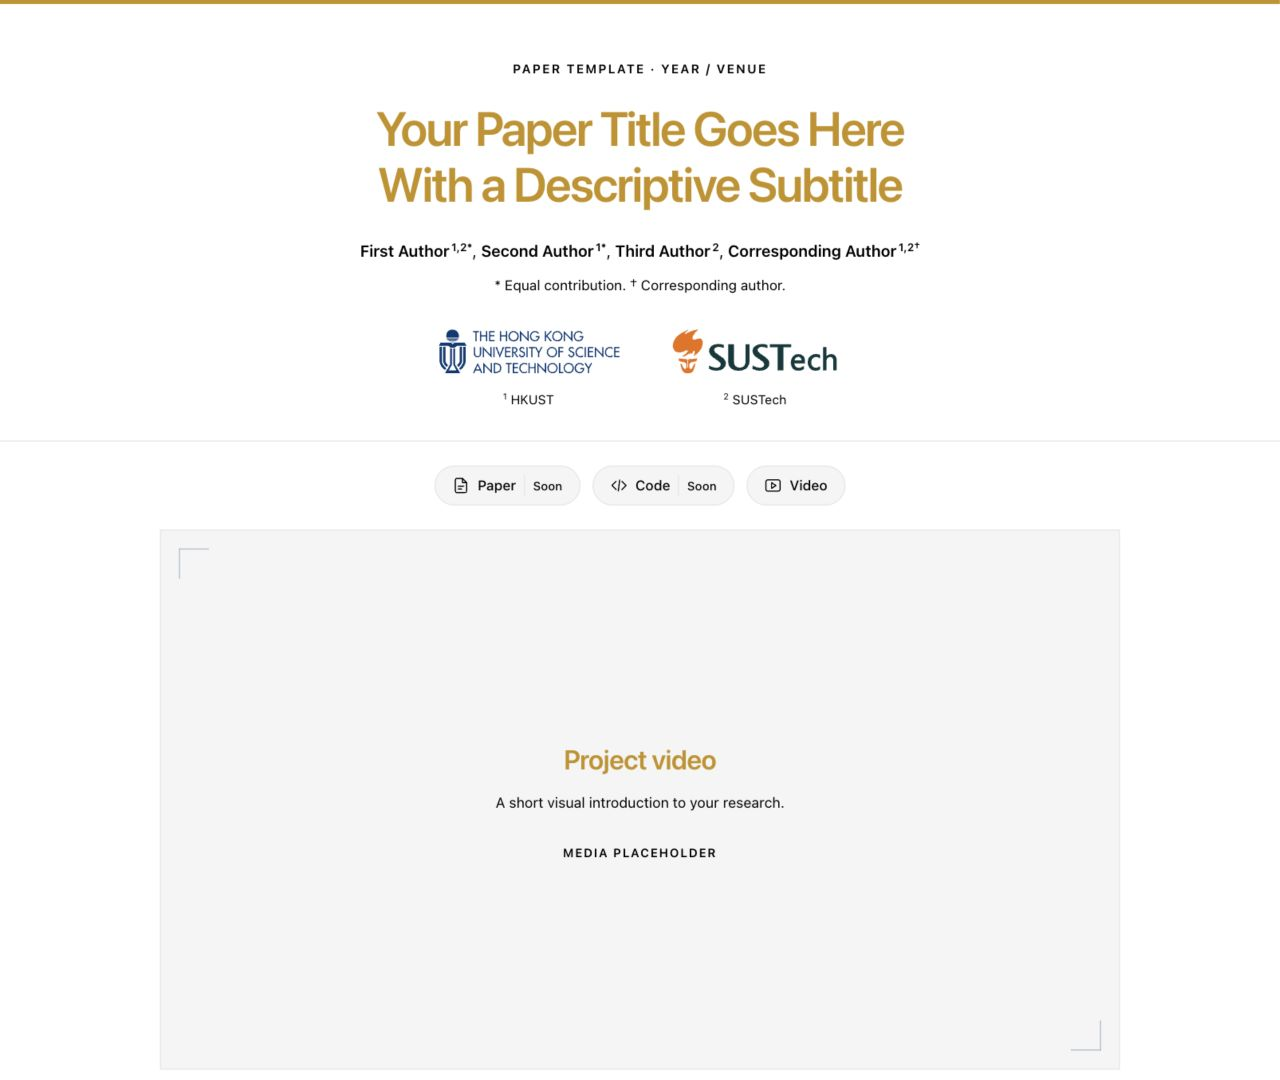
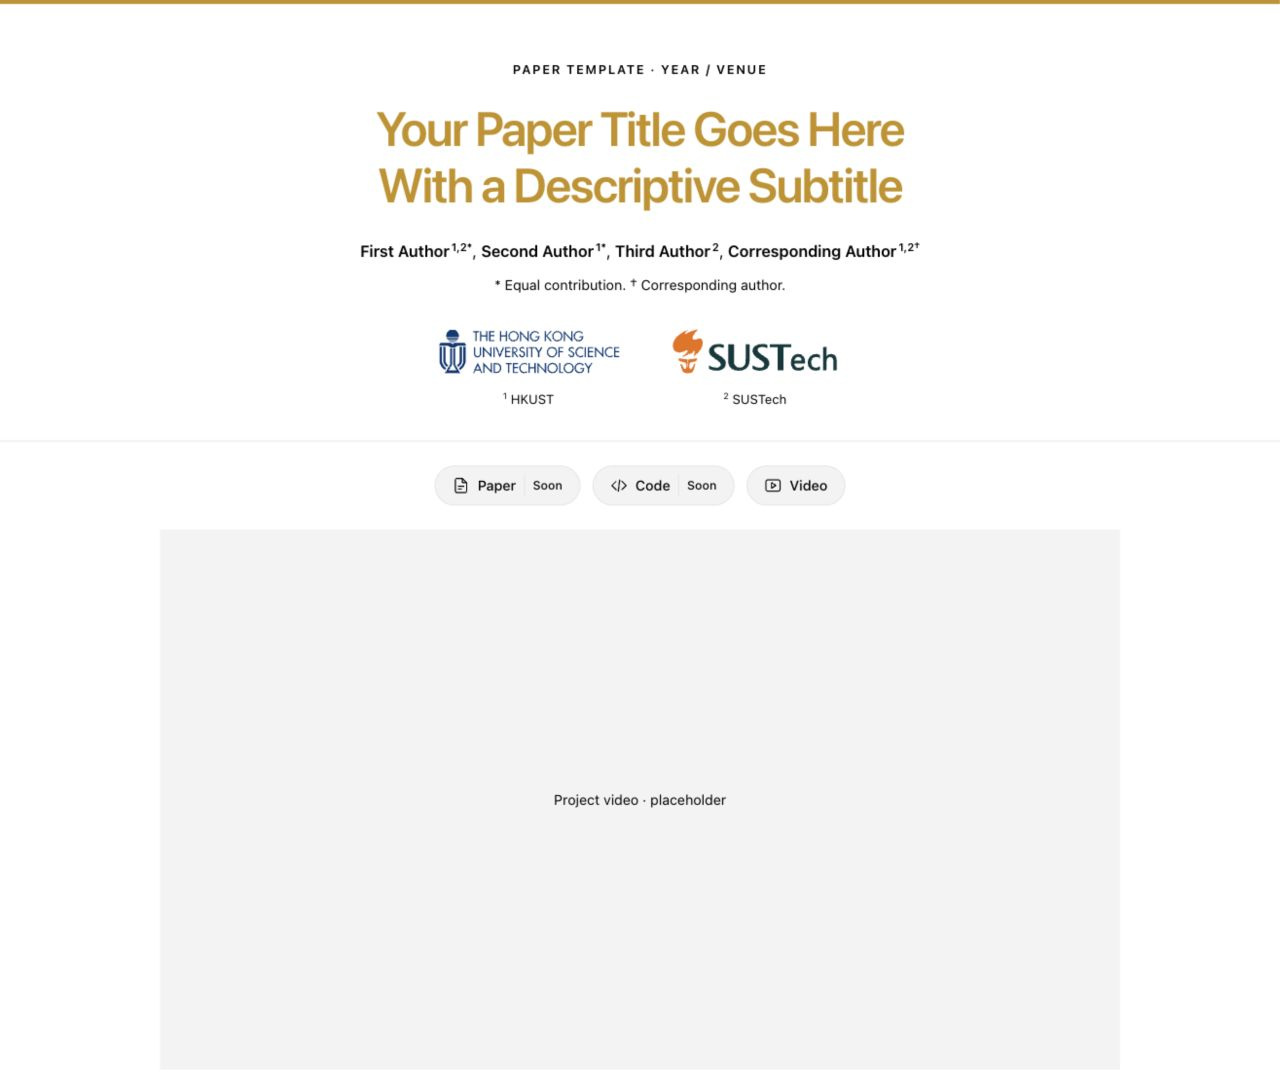
Simplify media placeholders and remove decorative panels

diff --git a/index.html b/index.html
@@ -15,7 +15,7 @@
 
   <meta name="twitter:card" content="summary">
   <link rel="icon" href="assets/favicon.svg" type="image/svg+xml">
-  <link rel="stylesheet" href="styles.css">
+  <link rel="stylesheet" href="styles.css?v=b87ae668315b">
   <script type="application/ld+json">{"@context":"https://schema.org","@type":"ScholarlyArticle","headline":"Your Paper Title Goes Here With a Descriptive Subtitle","description":"A concise, one-sentence summary of your research contribution.","author":[{"@type":"Person","name":"First Author"},{"@type":"Person","name":"Second Author"},{"@type":"Person","name":"Third Author"},{"@type":"Person","name":"Corresponding Author"}]}</script>
   <script src="main.js" defer></script>
 </head>
@@ -42,39 +42,33 @@
 <span class="resource-link unavailable" aria-disabled="true" title="Code — coming soon"><svg viewBox="0 0 24 24" fill="none" stroke="currentColor" stroke-width="1.6" stroke-linecap="round" stroke-linejoin="round" aria-hidden="true"><path d="m8 6-6 6 6 6m8-12 6 6-6 6m-3-14-2 16"/></svg>Code<span class="resource-status">Soon</span></span>
 <a class="resource-link" href="#video"><svg viewBox="0 0 24 24" fill="none" stroke="currentColor" stroke-width="1.6" stroke-linecap="round" stroke-linejoin="round" aria-hidden="true"><rect x="2" y="4" width="20" height="16" rx="3"/><path d="m10 8 6 4-6 4z"/></svg>Video</a></div>
     <section class="spotlight" id="video" aria-label="Project overview"><figure><div class="media-placeholder aspect-video">
-        <span class="placeholder-label">Project video</span>
-        <span class="placeholder-hint">A short visual introduction to your research.</span>
-        <span class="placeholder-tag">MEDIA PLACEHOLDER</span>
+        <span>Project video · placeholder</span>
       </div><figcaption>An overview of the problem, the proposed method, and the main result.</figcaption></figure></section>
     <section class="content-section" id="abstract" aria-labelledby="abstract-title"><h2 id="abstract-title">Abstract</h2><p class="abstract">Replace this paragraph with your paper’s abstract. Introduce the problem and explain why it matters, identify the limitation of existing approaches, and summarize your key idea. Describe the evaluation setting and the most important findings. Finish with the broader significance of the work. Keep this section self-contained so that readers can understand the contribution before exploring the figures and experiments below.</p></section>
     <section class="content-section" id="problem" aria-labelledby="problem-title">
     <h2 id="problem-title">Problem</h2>
     <p>What makes this problem difficult? Describe the setting, the assumptions, and the gap that motivates your work. Use the figure below to make the research question concrete.</p>
     <div class="media-group"><figure><div class="media-placeholder aspect-wide">
-        <span class="placeholder-label">Problem illustration</span>
-        <span class="placeholder-hint">Research setting · Key challenge · Desired outcome</span>
-        <span class="placeholder-tag">MEDIA PLACEHOLDER</span>
+        <span>Problem illustration · placeholder</span>
       </div><figcaption>Figure 1. Introduce the problem and highlight the challenge addressed by your method.</figcaption></figure></div>
 
   </section>
 <section class="content-section" id="method" aria-labelledby="method-title">
     <h2 id="method-title">Method</h2>
-    <p>Introduce the main idea of your approach. Explain the role of each component and how they work together. Replace the example pipeline with your own architecture, algorithm, or system overview.</p>
-    <div class="media-group"><figure><img src="assets/figures/method-placeholder.svg" alt="Example pipeline with three stages: input, proposed method, and output." loading="lazy" decoding="async"><figcaption>Figure 2. An example pipeline layout. Replace it with the method figure from your paper.</figcaption></figure></div>
+    <p>Introduce the main idea of your approach. Explain the role of each component and how they work together. Add a figure showing your architecture, algorithm, or system overview.</p>
+    <div class="media-group"><figure><div class="media-placeholder aspect-wide">
+        <span>Method figure · placeholder</span>
+      </div><figcaption>Figure 2. Overview of the proposed method.</figcaption></figure></div>
 
   </section>
 <section class="content-section" id="simulation" aria-labelledby="simulation-title">
     <h2 id="simulation-title">Simulation Performance</h2>
     <p>Describe the benchmarks, evaluation metrics, and comparison methods. Explain the main trend shown in each plot and report the evidence that supports your conclusions.</p>
     <div class="media-group two-columns"><figure><div class="media-placeholder aspect-plot">
-        <span class="placeholder-label">Main results</span>
-        <span class="placeholder-hint">Benchmark or performance plot</span>
-        <span class="placeholder-tag">MEDIA PLACEHOLDER</span>
+        <span>Main results · placeholder</span>
       </div><figcaption>(a) Main quantitative comparison.</figcaption></figure>
 <figure><div class="media-placeholder aspect-plot">
-        <span class="placeholder-label">Ablation study</span>
-        <span class="placeholder-hint">Contribution of individual components</span>
-        <span class="placeholder-tag">MEDIA PLACEHOLDER</span>
+        <span>Ablation study · placeholder</span>
       </div><figcaption>(b) Ablation or sensitivity analysis.</figcaption></figure></div>
 
   </section>
@@ -83,14 +77,10 @@
 
 
     <div class="experiment"><h3>Experiment 1</h3><p>Introduce the first experimental setting. State the task, conditions, and the behavior readers should look for in the demonstration.</p><div class="media-group"><figure><div class="media-placeholder aspect-video">
-        <span class="placeholder-label">Experiment video</span>
-        <span class="placeholder-hint">Demonstration or side-by-side comparison</span>
-        <span class="placeholder-tag">MEDIA PLACEHOLDER</span>
+        <span>Experiment video · placeholder</span>
       </div><figcaption>Describe the experimental conditions and what the demonstration shows.</figcaption></figure></div></div>
 <div class="experiment"><h3>Experiment 2</h3><p>Use a second experiment to show generalization, robustness, or a different task. Include representative successes and limitations where appropriate.</p><div class="media-group"><figure><div class="media-placeholder aspect-wide">
-        <span class="placeholder-label">Additional results</span>
-        <span class="placeholder-hint">A second experiment or qualitative figure</span>
-        <span class="placeholder-tag">MEDIA PLACEHOLDER</span>
+        <span>Additional results · placeholder</span>
       </div><figcaption>Explain how this experiment complements the first result.</figcaption></figure></div></div>
   </section>
     <section class="content-section" id="takeaways" aria-labelledby="takeaways-title"><h2 id="takeaways-title">Takeaways</h2><ul class="takeaway-list"><li>State the main conceptual or methodological contribution in one sentence.</li><li>Summarize the strongest experimental evidence supporting the approach.</li><li>Describe the practical implications, limitations, or next research direction.</li></ul></section>

diff --git a/styles.css b/styles.css
@@ -3,7 +3,7 @@
   --gold: #c59114;
   --text: #000000;
   --line: #e5e5e7;
-  --surface: #f5f5f5;
+  --surface: #f3f3f3;
   --gold-surface: #fbf7ee;
   --max-width: 960px;
   --font: -apple-system, BlinkMacSystemFont, "Segoe UI", sans-serif;
@@ -46,33 +46,24 @@ sup { font-size: .68em; line-height: 0; vertical-align: super; }
 .resource-status { border-left: 1px solid var(--line); padding-left: 8px; font-size: .75rem; }
 figure { min-width: 0; margin: 0; }
 figure > img { width: 100%; }
-figcaption { margin-top: 12px; font-size: .875rem; line-height: 1.6; color: var(--text); text-align: center; }
+figcaption { margin-top: 12px; font-size: .875rem; line-height: 1.6; color: var(--text); }
 .spotlight { margin: 0 0 58px; }
-.media-placeholder { position: relative; display: flex; flex-direction: column; justify-content: center; align-items: center; gap: 7px; padding: 32px 22px; border: 1px solid var(--line); background: var(--surface); text-align: center; }
-.media-placeholder::before, .media-placeholder::after { content: ''; position: absolute; width: 30px; height: 30px; border-color: #aab8c8; border-style: solid; }
-.media-placeholder::before { top: 18px; left: 18px; border-width: 1px 0 0 1px; }
-.media-placeholder::after { right: 18px; bottom: 18px; border-width: 0 1px 1px 0; }
+.media-placeholder { display: grid; place-items: center; padding: 24px; background: var(--surface); color: var(--text); font-size: .875rem; text-align: center; }
 .aspect-video { aspect-ratio: 16/9; }
 .aspect-wide { aspect-ratio: 3/1; }
 .aspect-plot { aspect-ratio: 8/5; }
-.placeholder-label { color: var(--gold); font-size: clamp(1.25rem, 2.5vw, 1.7rem); font-weight: 600; letter-spacing: -.025em; }
-.placeholder-hint { color: var(--text); font-size: .9rem; }
-.placeholder-tag { margin-top: 20px; color: var(--text); font-size: .75rem; letter-spacing: .11em; font-weight: 600; }
 .content-section { margin-block: 0 56px; }
 h2 { margin: 0 0 18px; color: var(--gold); font-size: 1.65rem; letter-spacing: -.025em; font-weight: 500; line-height: 1.3; }
-h2::after { content: ''; display: block; width: 36px; height: 3px; margin-top: 12px; background: var(--gold); }
 p { margin: 0 0 20px; }
 .abstract { text-align: justify; }
-.media-group { display: grid; gap: 24px; margin-top: 24px; }
+.media-group { display: grid; column-gap: 40px; row-gap: 32px; margin-top: 24px; }
 .two-columns { grid-template-columns: repeat(2, minmax(0, 1fr)); }
 .experiment + .experiment { margin-top: 36px; }
 h3 { margin: 24px 0 12px; color: var(--gold); font-weight: 500; font-size: 1.125rem; line-height: 1.5; }
 .video-embed { position: relative; aspect-ratio: 16/9; background: var(--surface); }
 .video-embed iframe { width: 100%; height: 100%; position: absolute; inset: 0; border: 0; }
 video { width: 100%; background: #071d33; }
-.takeaway-list { list-style: none; margin: 0; padding: 22px 28px; border-left: 3px solid var(--gold); background: var(--gold-surface); }
-.takeaway-list li { position: relative; padding-left: 18px; }
-.takeaway-list li::before { content: '•'; position: absolute; left: 0; color: var(--text); }
+.takeaway-list { margin: 0; padding-left: 20px; }
 .takeaway-list li + li { margin-top: 12px; }
 .bib-header { display: flex; align-items: flex-start; justify-content: space-between; gap: 16px; }
 .bib-actions { display: flex; align-items: center; gap: 18px; font-size: .875rem; }
@@ -104,9 +95,6 @@ video { width: 100%; background: #071d33; }
   .abstract { text-align: left; }
   .two-columns { grid-template-columns: 1fr; }
   .aspect-wide { aspect-ratio: 16/9; }
-  .placeholder-hint { font-size: .8rem; }
-  .placeholder-tag { margin-top: 12px; font-size: .7rem; }
-  .takeaway-list { padding: 18px; }
   .bib-header { flex-wrap: wrap; margin-bottom: 18px; }
   .bib-header h2 { margin-bottom: 0; }
   .bib { padding: 16px; font-size: .8rem; }

diff --git a/docs/ASSETS.md b/docs/ASSETS.md
@@ -6,12 +6,13 @@ Retrieved / prepared on 2026-09-21.
 
 - Reference: https://embodiment-adaptation.github.io/
 - Retained the centered academic header, institutional logo row, resource pills, leading video, abstract, problem, method, simulation / real-world results, takeaways, and citation structure.
-- HTML, CSS, JavaScript, and the example pipeline diagram were implemented for this template. Original paper text, figures, videos, and commercial Graphik font files are not redistributed.
+- HTML, CSS, and JavaScript were implemented for this template. Original paper text, figures, videos, and commercial Graphik font files are not redistributed.
+- Media presentation follows the user's personal website: flat, unframed images and video, left-aligned captions, and a 40 px gap between desktop columns. Placeholder panels use a single short label on `#F3F3F3`, with no decorative corners or stacked instructions.
 
 ## Colors and typography
 
 - Gold: `#C59114`, RGB 197 / 145 / 20, explicitly requested by the user to match the [reference project page](https://embodiment-adaptation.github.io/). This replaces the earlier HKUST official gold choice.
-- Page titles, section / experiment headings, and figure-placeholder headings use this gold. Other page text uses `#000000`; university logo artwork retains its original colors.
+- Page titles and section / experiment headings use this gold. Other page text, including the small media placeholder labels, uses `#000000`; university logo artwork retains its original colors.
 - The font stack matches the user's personal website repository `Lgx521.github.io-main`, `assets/css/site-shell.css` (`--site-font`): `-apple-system, BlinkMacSystemFont, "Segoe UI", sans-serif`.
 - Heading weights follow `assets/css/site-pages.css`: 600 for the main title, 500 for section and experiment headings. BibTeX keeps its monospace stack.
 - The font comes from the reader's operating system; no font files or external font services are required.

diff --git a/AGENTS.md b/AGENTS.md
@@ -17,6 +17,7 @@
 - SUSTech 只保留火炬和大字，右侧小字英文全称已裁掉。
 - 两个标志已按用户要求缩至之前的约 70%：桌面宽度分别为 182 px、175 px，图片框高度 49 px。保持矢量比例，不拉伸。
 - 示例内容必须明确标为占位；不要虚构作者、发表信息、实验结论、DOI 或 arXiv 编号。
+- 媒体采用个人主页式的简洁排版：图片和视频直接展示，图注在下方左对齐。占位区只用浅灰底和一行简短标识，不添加装饰边框、角标、说明堆叠或假播放按钮；章节通过留白区分。
 
 ## 本地预览
 
@@ -49,7 +50,7 @@ git commit -m "Add paper content"
 git push
 ```
 
-不要在修改配置后忘记重新生成页面。CI 会检查 `index.html` 与配置是否一致。也可以运行 `npm run build` / `npm run check`；无需安装包。
+修改配置或样式后都需要重新生成页面；生成器会按 CSS 内容更新样式链接的版本号，避免浏览器继续显示旧缓存。CI 会检查 `index.html` 与配置、样式是否一致。也可以运行 `npm run build` / `npm run check`；无需安装包。
 
 ### 常改字段
 
@@ -139,7 +140,7 @@ styles.css              # 配色、排版和响应式布局
 main.js                 # 渐进增强：BibTeX 复制
 citation.bib            # 自动生成的可下载引用
 assets/logos/           # HKUST 与 SUSTech 矢量标志
-assets/figures/          # 方法示意图占位；替换为论文图片
+assets/figures/          # 放论文图片
 assets/videos/          # 放视频和字幕
 scripts/build.mjs       # 无依赖页面生成器
 scripts/check.mjs       # 检查本地文件、锚点与基本 HTML 结构
